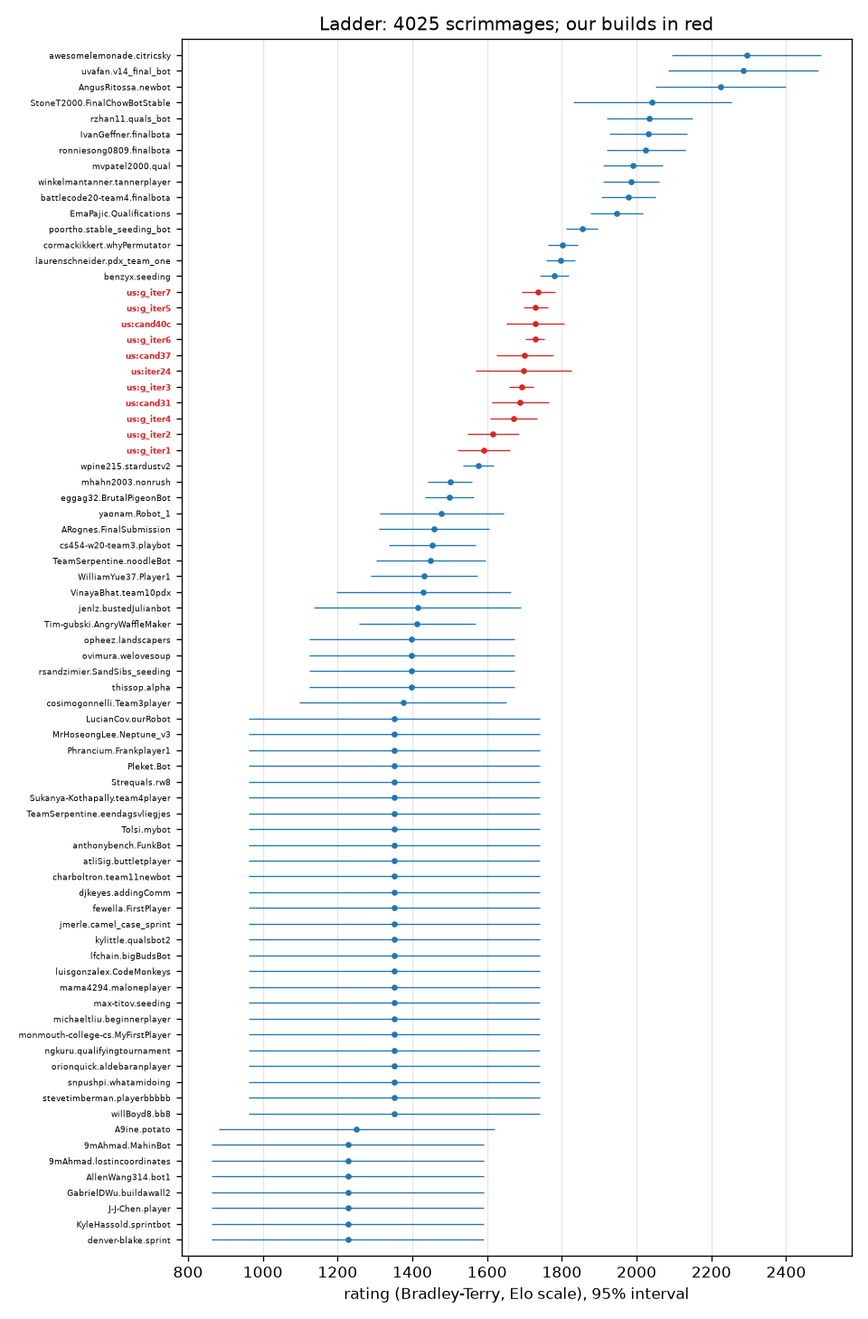
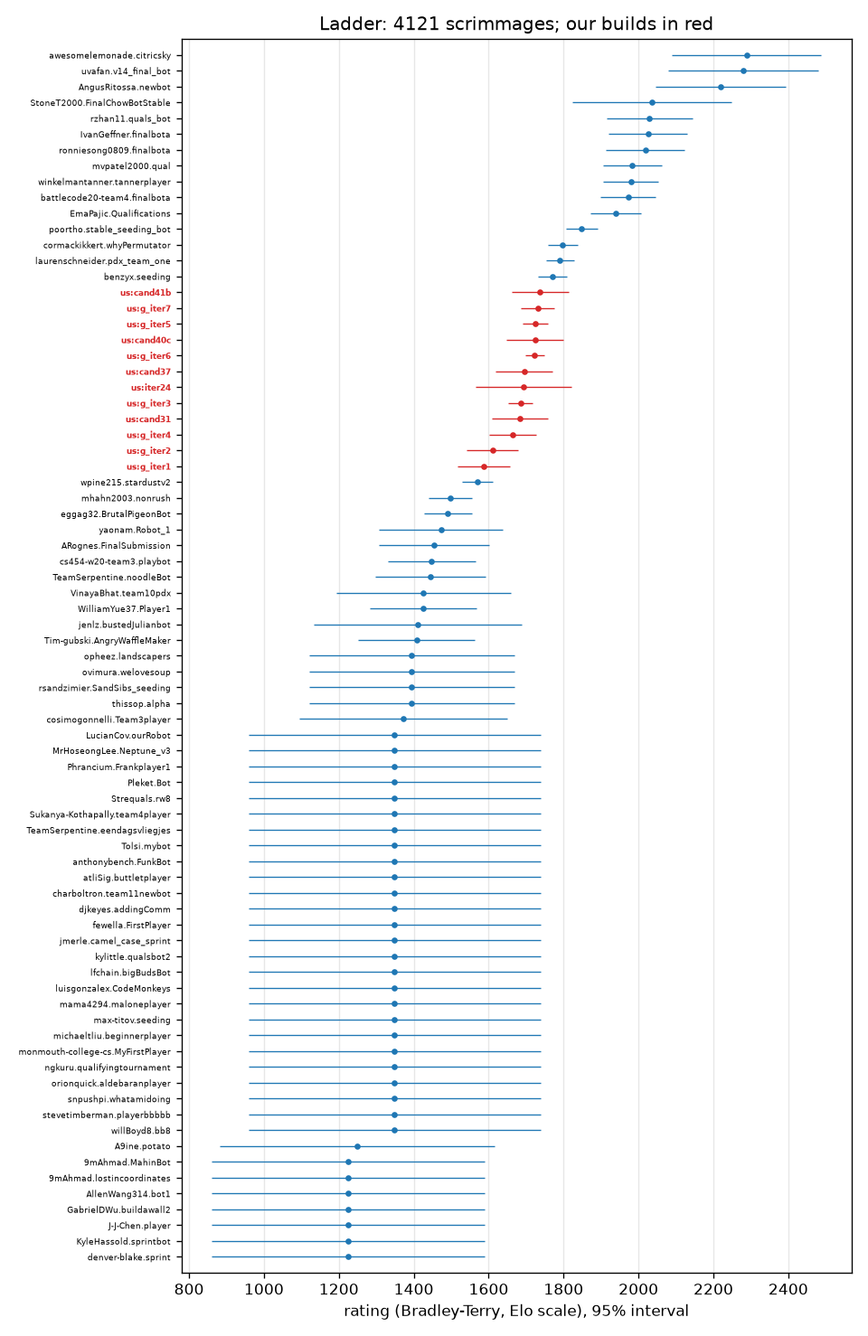
Arm 41b: flood-round losses 1 of 96 (the pre-registered finding; g_iter7's rate gives 6-7), 51-45, 1737 +- 76; ladder files
Claude-Session: https://claude.ai/code/session_015tNyF5ucwWW1mudpEQTT25

diff --git a/progress/ELO.md b/progress/ELO.md
@@ -1,98 +1,100 @@
 # Ladder
 
-4025 scrimmages (ours only), 3501 distinct (a repeated pairing with the same seed replays the same game and counts once), rated by a batch Bradley-Terry fit on the Elo scale (`tools/elolib.py`); each of our builds is its own player. 65 of 65 ladder bots met.
+4121 scrimmages (ours only), 3597 distinct (a repeated pairing with the same seed replays the same game and counts once), rated by a batch Bradley-Terry fit on the Elo scale (`tools/elolib.py`); each of our builds is its own player. 65 of 65 ladder bots met.
 
 Our builds (rating +- 95%; field score = expected score against every ladder bot, one game each):
 
 | build | rating | rank | games | record | field score |
 |---|---|---|---|---|---|
-| g_iter7 | 1737 +- 44 | 16 of 76 | 288 | 135-153 | 73.3% |
-| g_iter5 | 1730 +- 34 | 17 of 76 | 618 | 329-289 | 72.9% |
-| cand40c | 1729 +- 77 | 18 of 76 | 96 | 57-39 | 72.8% |
-| g_iter6 | 1729 +- 25 | 19 of 76 | 886 | 450-436 | 72.8% |
-| cand37 | 1701 +- 76 | 20 of 76 | 96 | 46-50 | 71.0% |
-| iter24 | 1698 +- 128 | 21 of 76 | 46 | 11-35 | 70.8% |
-| g_iter3 | 1692 +- 32 | 22 of 76 | 796 | 167-629 | 70.4% |
-| cand31 | 1689 +- 76 | 23 of 76 | 96 | 52-44 | 70.2% |
-| g_iter4 | 1670 +- 63 | 24 of 76 | 217 | 43-174 | 68.9% |
-| g_iter2 | 1616 +- 69 | 25 of 76 | 192 | 44-148 | 64.7% |
-| g_iter1 | 1591 +- 70 | 26 of 76 | 170 | 95-75 | 62.7% |
+| cand41b | 1737 +- 76 | 16 of 77 | 96 | 51-45 | 73.6% |
+| g_iter7 | 1731 +- 44 | 17 of 77 | 288 | 135-153 | 73.2% |
+| g_iter5 | 1724 +- 34 | 18 of 77 | 618 | 329-289 | 72.8% |
+| cand40c | 1723 +- 77 | 19 of 77 | 96 | 57-39 | 72.7% |
+| g_iter6 | 1723 +- 25 | 20 of 77 | 886 | 450-436 | 72.7% |
+| cand37 | 1694 +- 76 | 21 of 77 | 96 | 46-50 | 70.8% |
+| iter24 | 1692 +- 128 | 22 of 77 | 46 | 11-35 | 70.7% |
+| g_iter3 | 1686 +- 32 | 23 of 77 | 796 | 167-629 | 70.2% |
+| cand31 | 1683 +- 76 | 24 of 77 | 96 | 52-44 | 70.1% |
+| g_iter4 | 1664 +- 63 | 25 of 77 | 217 | 43-174 | 68.7% |
+| g_iter2 | 1610 +- 69 | 26 of 77 | 192 | 44-148 | 64.5% |
+| g_iter1 | 1587 +- 69 | 27 of 77 | 170 | 95-75 | 62.6% |
 
 | rank | player | rating | +- 95% | games | W-L |
 |---|---|---|---|---|---|
-| 1 | awesomelemonade.citricsky | 2294 | 200 | 103 | 101-2 |
-| 2 | uvafan.v14_final_bot | 2285 | 200 | 98 | 96-2 |
-| 3 | AngusRitossa.newbot | 2226 | 174 | 95 | 92-3 |
-| 4 | StoneT2000.FinalChowBotStable | 2041 | 212 | 21 | 19-2 |
-| 5 | rzhan11.quals_bot | 2035 | 115 | 86 | 77-9 |
-| 6 | IvanGeffner.finalbota | 2031 | 105 | 101 | 90-11 |
-| 7 | ronniesong0809.finalbota | 2025 | 105 | 97 | 86-11 |
-| 8 | mvpatel2000.qual | 1990 | 79 | 139 | 118-21 |
-| 9 | winkelmantanner.tannerplayer | 1985 | 75 | 152 | 128-24 |
-| 10 | battlecode20-team4.finalbota | 1978 | 73 | 154 | 129-25 |
-| 11 | EmaPajic.Qualifications | 1947 | 71 | 149 | 121-28 |
-| 12 | poortho.stable_seeding_bot | 1854 | 42 | 305 | 212-93 |
-| 13 | cormackikkert.whyPermutator | 1802 | 40 | 313 | 196-117 |
-| 14 | laurenschneider.pdx_team_one | 1797 | 39 | 320 | 198-122 |
-| 15 | benzyx.seeding | 1780 | 39 | 316 | 189-127 |
-| 16 | **us:g_iter7** | 1737 | 44 | 288 | 135-153 |
-| 17 | **us:g_iter5** | 1730 | 34 | 618 | 329-289 |
-| 18 | **us:cand40c** | 1729 | 77 | 96 | 57-39 |
-| 19 | **us:g_iter6** | 1729 | 25 | 886 | 450-436 |
-| 20 | **us:cand37** | 1701 | 76 | 96 | 46-50 |
-| 21 | **us:iter24** | 1698 | 128 | 46 | 11-35 |
-| 22 | **us:g_iter3** | 1692 | 32 | 796 | 167-629 |
-| 23 | **us:cand31** | 1689 | 76 | 96 | 52-44 |
-| 24 | **us:g_iter4** | 1670 | 63 | 217 | 43-174 |
-| 25 | **us:g_iter2** | 1616 | 69 | 192 | 44-148 |
-| 26 | **us:g_iter1** | 1591 | 70 | 170 | 95-75 |
-| 27 | wpine215.stardustv2 | 1576 | 42 | 311 | 98-213 |
-| 28 | mhahn2003.nonrush | 1501 | 60 | 184 | 42-142 |
-| 29 | eggag32.BrutalPigeonBot | 1499 | 65 | 158 | 34-124 |
-| 30 | yaonam.Robot_1 | 1478 | 165 | 21 | 5-16 |
-| 31 | ARognes.FinalSubmission | 1459 | 148 | 31 | 6-25 |
-| 32 | cs454-w20-team3.playbot | 1453 | 117 | 50 | 10-40 |
-| 33 | TeamSerpentine.noodleBot | 1449 | 147 | 32 | 6-26 |
-| 34 | WilliamYue37.Player1 | 1430 | 143 | 40 | 6-34 |
-| 35 | VinayaBhat.team10pdx | 1430 | 234 | 9 | 2-7 |
-| 36 | jenlz.bustedJulianbot | 1414 | 277 | 8 | 1-7 |
-| 37 | Tim-gubski.AngryWaffleMaker | 1413 | 156 | 32 | 5-27 |
-| 38 | opheez.landscapers | 1399 | 274 | 9 | 1-8 |
-| 39 | ovimura.welovesoup | 1399 | 274 | 9 | 1-8 |
-| 40 | rsandzimier.SandSibs_seeding | 1399 | 274 | 9 | 1-8 |
-| 41 | thissop.alpha | 1399 | 274 | 9 | 1-8 |
-| 42 | cosimogonnelli.Team3player | 1375 | 277 | 7 | 1-6 |
-| 43 | LucianCov.ourRobot | 1351 | 390 | 3 | 0-3 |
-| 44 | MrHoseongLee.Neptune_v3 | 1351 | 390 | 3 | 0-3 |
-| 45 | Phrancium.Frankplayer1 | 1351 | 390 | 3 | 0-3 |
-| 46 | Pleket.Bot | 1351 | 390 | 3 | 0-3 |
-| 47 | Strequals.rw8 | 1351 | 390 | 3 | 0-3 |
-| 48 | Sukanya-Kothapally.team4player | 1351 | 390 | 3 | 0-3 |
-| 49 | TeamSerpentine.eendagsvliegjes | 1351 | 390 | 3 | 0-3 |
-| 50 | Tolsi.mybot | 1351 | 390 | 3 | 0-3 |
-| 51 | anthonybench.FunkBot | 1351 | 390 | 3 | 0-3 |
-| 52 | atliSig.buttletplayer | 1351 | 390 | 3 | 0-3 |
-| 53 | charboltron.team11newbot | 1351 | 390 | 3 | 0-3 |
-| 54 | djkeyes.addingComm | 1351 | 390 | 3 | 0-3 |
-| 55 | fewella.FirstPlayer | 1351 | 390 | 3 | 0-3 |
-| 56 | jmerle.camel_case_sprint | 1351 | 390 | 3 | 0-3 |
-| 57 | kylittle.qualsbot2 | 1351 | 390 | 3 | 0-3 |
-| 58 | lfchain.bigBudsBot | 1351 | 390 | 3 | 0-3 |
-| 59 | luisgonzalex.CodeMonkeys | 1351 | 390 | 3 | 0-3 |
-| 60 | mama4294.maloneplayer | 1351 | 390 | 3 | 0-3 |
-| 61 | max-titov.seeding | 1351 | 390 | 3 | 0-3 |
-| 62 | michaeltliu.beginnerplayer | 1351 | 390 | 3 | 0-3 |
-| 63 | monmouth-college-cs.MyFirstPlayer | 1351 | 390 | 3 | 0-3 |
-| 64 | ngkuru.qualifyingtournament | 1351 | 390 | 3 | 0-3 |
-| 65 | orionquick.aldebaranplayer | 1351 | 390 | 3 | 0-3 |
-| 66 | snpushpi.whatamidoing | 1351 | 390 | 3 | 0-3 |
-| 67 | stevetimberman.playerbbbbb | 1351 | 390 | 3 | 0-3 |
-| 68 | willBoyd8.bb8 | 1351 | 390 | 3 | 0-3 |
-| 69 | A9ine.potato | 1251 | 368 | 6 | 0-6 |
-| 70 | 9mAhmad.MahinBot | 1228 | 364 | 7 | 0-7 |
-| 71 | 9mAhmad.lostincoordinates | 1228 | 364 | 7 | 0-7 |
-| 72 | AllenWang314.bot1 | 1228 | 364 | 7 | 0-7 |
-| 73 | GabrielDWu.buildawall2 | 1228 | 364 | 7 | 0-7 |
-| 74 | J-J-Chen.player | 1228 | 364 | 7 | 0-7 |
-| 75 | KyleHassold.sprintbot | 1228 | 364 | 7 | 0-7 |
-| 76 | denver-blake.sprint | 1228 | 364 | 7 | 0-7 |
+| 1 | awesomelemonade.citricsky | 2288 | 200 | 103 | 101-2 |
+| 2 | uvafan.v14_final_bot | 2279 | 200 | 98 | 96-2 |
+| 3 | AngusRitossa.newbot | 2220 | 174 | 95 | 92-3 |
+| 4 | StoneT2000.FinalChowBotStable | 2036 | 212 | 21 | 19-2 |
+| 5 | rzhan11.quals_bot | 2029 | 115 | 86 | 77-9 |
+| 6 | IvanGeffner.finalbota | 2025 | 105 | 101 | 90-11 |
+| 7 | ronniesong0809.finalbota | 2019 | 105 | 97 | 86-11 |
+| 8 | mvpatel2000.qual | 1984 | 79 | 139 | 118-21 |
+| 9 | winkelmantanner.tannerplayer | 1979 | 75 | 152 | 128-24 |
+| 10 | battlecode20-team4.finalbota | 1972 | 73 | 154 | 129-25 |
+| 11 | EmaPajic.Qualifications | 1940 | 67 | 161 | 130-31 |
+| 12 | poortho.stable_seeding_bot | 1849 | 41 | 317 | 220-97 |
+| 13 | cormackikkert.whyPermutator | 1798 | 39 | 325 | 204-121 |
+| 14 | laurenschneider.pdx_team_one | 1791 | 38 | 332 | 205-127 |
+| 15 | benzyx.seeding | 1771 | 38 | 328 | 194-134 |
+| 16 | **us:cand41b** | 1737 | 76 | 96 | 51-45 |
+| 17 | **us:g_iter7** | 1731 | 44 | 288 | 135-153 |
+| 18 | **us:g_iter5** | 1724 | 34 | 618 | 329-289 |
+| 19 | **us:cand40c** | 1723 | 77 | 96 | 57-39 |
+| 20 | **us:g_iter6** | 1723 | 25 | 886 | 450-436 |
+| 21 | **us:cand37** | 1694 | 76 | 96 | 46-50 |
+| 22 | **us:iter24** | 1692 | 128 | 46 | 11-35 |
+| 23 | **us:g_iter3** | 1686 | 32 | 796 | 167-629 |
+| 24 | **us:cand31** | 1683 | 76 | 96 | 52-44 |
+| 25 | **us:g_iter4** | 1664 | 63 | 217 | 43-174 |
+| 26 | **us:g_iter2** | 1610 | 69 | 192 | 44-148 |
+| 27 | **us:g_iter1** | 1587 | 69 | 170 | 95-75 |
+| 28 | wpine215.stardustv2 | 1569 | 41 | 323 | 101-222 |
+| 29 | mhahn2003.nonrush | 1498 | 58 | 196 | 45-151 |
+| 30 | eggag32.BrutalPigeonBot | 1491 | 63 | 170 | 36-134 |
+| 31 | yaonam.Robot_1 | 1473 | 165 | 21 | 5-16 |
+| 32 | ARognes.FinalSubmission | 1454 | 148 | 31 | 6-25 |
+| 33 | cs454-w20-team3.playbot | 1448 | 117 | 50 | 10-40 |
+| 34 | TeamSerpentine.noodleBot | 1444 | 147 | 32 | 6-26 |
+| 35 | VinayaBhat.team10pdx | 1426 | 234 | 9 | 2-7 |
+| 36 | WilliamYue37.Player1 | 1425 | 143 | 40 | 6-34 |
+| 37 | jenlz.bustedJulianbot | 1410 | 277 | 8 | 1-7 |
+| 38 | Tim-gubski.AngryWaffleMaker | 1408 | 156 | 32 | 5-27 |
+| 39 | opheez.landscapers | 1395 | 273 | 9 | 1-8 |
+| 40 | ovimura.welovesoup | 1395 | 273 | 9 | 1-8 |
+| 41 | rsandzimier.SandSibs_seeding | 1395 | 273 | 9 | 1-8 |
+| 42 | thissop.alpha | 1395 | 273 | 9 | 1-8 |
+| 43 | cosimogonnelli.Team3player | 1372 | 277 | 7 | 1-6 |
+| 44 | LucianCov.ourRobot | 1349 | 390 | 3 | 0-3 |
+| 45 | MrHoseongLee.Neptune_v3 | 1349 | 390 | 3 | 0-3 |
+| 46 | Phrancium.Frankplayer1 | 1349 | 390 | 3 | 0-3 |
+| 47 | Pleket.Bot | 1349 | 390 | 3 | 0-3 |
+| 48 | Strequals.rw8 | 1349 | 390 | 3 | 0-3 |
+| 49 | Sukanya-Kothapally.team4player | 1349 | 390 | 3 | 0-3 |
+| 50 | TeamSerpentine.eendagsvliegjes | 1349 | 390 | 3 | 0-3 |
+| 51 | Tolsi.mybot | 1349 | 390 | 3 | 0-3 |
+| 52 | anthonybench.FunkBot | 1349 | 390 | 3 | 0-3 |
+| 53 | atliSig.buttletplayer | 1349 | 390 | 3 | 0-3 |
+| 54 | charboltron.team11newbot | 1349 | 390 | 3 | 0-3 |
+| 55 | djkeyes.addingComm | 1349 | 390 | 3 | 0-3 |
+| 56 | fewella.FirstPlayer | 1349 | 390 | 3 | 0-3 |
+| 57 | jmerle.camel_case_sprint | 1349 | 390 | 3 | 0-3 |
+| 58 | kylittle.qualsbot2 | 1349 | 390 | 3 | 0-3 |
+| 59 | lfchain.bigBudsBot | 1349 | 390 | 3 | 0-3 |
+| 60 | luisgonzalex.CodeMonkeys | 1349 | 390 | 3 | 0-3 |
+| 61 | mama4294.maloneplayer | 1349 | 390 | 3 | 0-3 |
+| 62 | max-titov.seeding | 1349 | 390 | 3 | 0-3 |
+| 63 | michaeltliu.beginnerplayer | 1349 | 390 | 3 | 0-3 |
+| 64 | monmouth-college-cs.MyFirstPlayer | 1349 | 390 | 3 | 0-3 |
+| 65 | ngkuru.qualifyingtournament | 1349 | 390 | 3 | 0-3 |
+| 66 | orionquick.aldebaranplayer | 1349 | 390 | 3 | 0-3 |
+| 67 | snpushpi.whatamidoing | 1349 | 390 | 3 | 0-3 |
+| 68 | stevetimberman.playerbbbbb | 1349 | 390 | 3 | 0-3 |
+| 69 | willBoyd8.bb8 | 1349 | 390 | 3 | 0-3 |
+| 70 | A9ine.potato | 1248 | 368 | 6 | 0-6 |
+| 71 | 9mAhmad.MahinBot | 1225 | 364 | 7 | 0-7 |
+| 72 | 9mAhmad.lostincoordinates | 1225 | 364 | 7 | 0-7 |
+| 73 | AllenWang314.bot1 | 1225 | 364 | 7 | 0-7 |
+| 74 | GabrielDWu.buildawall2 | 1225 | 364 | 7 | 0-7 |
+| 75 | J-J-Chen.player | 1225 | 364 | 7 | 0-7 |
+| 76 | KyleHassold.sprintbot | 1225 | 364 | 7 | 0-7 |
+| 77 | denver-blake.sprint | 1225 | 364 | 7 | 0-7 |

diff --git a/progress/ONSET.md b/progress/ONSET.md
@@ -1,6 +1,6 @@
 # Which metric starts predicting the result first
 
-45 games, 26 wins. Noise floor about 0.30; a correlation inside that band is not evidence.
+47 games, 28 wins. Noise floor about 0.29; a correlation inside that band is not evidence.
 
 Every metric is oriented so **higher is better for us**, so a positive correlation always means
 "this being better goes with winning". `~avg` is the running mean over all rounds so far rather than
@@ -12,46 +12,46 @@ See `progress/METRICS.md` for how each quantity is computed.
 
 | onset | anti | metric | peak corr | r100 | r200 | r300 | r400 | r600 | r900 |
 |---|---|---|---|---|---|---|---|---|---|
-| r250 | - | units (us-them) | +0.43 | +0.17 | +0.10 | +0.41 | +0.43 | +0.37 | +0.27 |
-| r300 | - | died (us-them) [inverted] ~avg | +0.34 | -0.16 | -0.01 | +0.32 | +0.29 | +0.18 | +0.15 |
-| r300 | - | miners (us-them) | +0.33 | +0.26 | +0.20 | +0.33 | +0.17 | +0.07 | -0.05 |
-| r300 | - | miners (us-them) ~avg | +0.33 | +0.11 | +0.16 | +0.32 | +0.30 | +0.21 | +0.12 |
-| r300 | - | robots (us-them) | +0.41 | +0.13 | +0.10 | +0.38 | +0.41 | +0.37 | +0.26 |
-| r350 | - | landscapers (us-them) | +0.58 | -0.04 | +0.03 | +0.27 | +0.42 | +0.58 | +0.58 |
-| r350 | - | units (us-them) ~avg | +0.42 | +0.03 | +0.07 | +0.28 | +0.39 | +0.42 | +0.38 |
-| r400 | - | robots (us-them) ~avg | +0.38 | +0.03 | +0.08 | +0.23 | +0.33 | +0.37 | +0.34 |
-| r400 | - | spawned (us-them) | +0.35 | +0.14 | +0.10 | +0.30 | +0.34 | +0.30 | +0.20 |
-| r500 | - | digs (us-them) | +0.61 | -0.12 | -0.06 | +0.09 | +0.23 | +0.47 | +0.61 |
-| r500 | - | dirtDeps (us-them) | +0.57 | -0.12 | -0.08 | +0.07 | +0.19 | +0.43 | +0.57 |
-| r500 | - | landscapers (us-them) ~avg | +0.63 | -0.09 | -0.02 | +0.09 | +0.23 | +0.45 | +0.61 |
-| r600 | - | digs (us-them) ~avg | +0.56 | -0.14 | -0.05 | +0.05 | +0.16 | +0.32 | +0.52 |
-| r650 | - | dirtDeps (us-them) ~avg | +0.52 | -0.13 | -0.06 | +0.02 | +0.13 | +0.28 | +0.49 |
-| - | r300 | aba (us-them) [inverted] | -0.47 | -0.17 | -0.22 | -0.33 | -0.41 | -0.47 | -0.34 |
-| - | r350 | aba (us-them) [inverted] ~avg | -0.44 | -0.18 | -0.21 | -0.28 | -0.34 | -0.43 | -0.43 |
-| - | - | cov (us-them) | -0.16 | -0.05 | +0.02 | +0.07 | -0.03 | -0.16 | -0.04 |
-| - | - | cov (us-them) ~avg | -0.05 | -0.04 | -0.03 | +0.02 | +0.03 | -0.02 | -0.05 |
-| - | - | died (us-them) [inverted] | +0.30 | -0.16 | +0.00 | +0.29 | +0.17 | +0.11 | +0.06 |
-| - | - | drones (us-them) | -0.18 | +0.10 | -0.09 | +0.00 | -0.11 | -0.09 | -0.18 |
-| - | - | drones (us-them) ~avg | -0.13 | +0.10 | +0.04 | +0.03 | -0.01 | -0.09 | -0.13 |
+| r150 | - | worth (us-them) | +0.46 | +0.20 | +0.26 | +0.33 | +0.30 | +0.36 | +0.46 |
+| r300 | - | drones (us-them) | +0.32 | +0.20 | +0.13 | +0.32 | +0.22 | +0.16 | +0.21 |
+| r300 | - | drones (us-them) ~avg | +0.37 | +0.27 | +0.23 | +0.37 | +0.33 | +0.23 | +0.19 |
+| r350 | - | died (us-them) [inverted] | +0.32 | . | +0.32 | +0.24 | +0.26 | +0.20 | +0.19 |
+| r350 | - | pickups (us-them) | +0.44 | +0.13 | +0.21 | +0.27 | +0.41 | +0.41 | +0.43 |
+| r350 | - | pickups (us-them) ~avg | +0.42 | +0.13 | +0.21 | +0.26 | +0.36 | +0.42 | +0.41 |
+| r350 | - | worth (us-them) ~avg | +0.41 | +0.19 | +0.28 | +0.29 | +0.32 | +0.33 | +0.37 |
+| r400 | - | robots (us-them) | +0.62 | +0.17 | +0.17 | +0.20 | +0.30 | +0.45 | +0.62 |
+| r450 | - | landscapers (us-them) | +0.60 | +0.05 | +0.07 | +0.02 | +0.24 | +0.53 | +0.59 |
+| r450 | - | spawned (us-them) | +0.59 | +0.17 | +0.15 | +0.16 | +0.25 | +0.41 | +0.54 |
+| r450 | - | units (us-them) | +0.57 | +0.05 | +0.09 | +0.11 | +0.24 | +0.41 | +0.56 |
+| r500 | - | vaporators (us-them) | +0.48 | -0.01 | -0.05 | +0.09 | +0.20 | +0.38 | +0.45 |
+| r550 | - | robots (us-them) ~avg | +0.53 | +0.20 | +0.21 | +0.18 | +0.22 | +0.35 | +0.49 |
+| r600 | - | landscapers (us-them) ~avg | +0.52 | +0.05 | +0.09 | +0.00 | +0.06 | +0.34 | +0.51 |
+| r650 | - | spawned (us-them) ~avg | +0.47 | +0.20 | +0.20 | +0.16 | +0.18 | +0.30 | +0.40 |
+| r650 | - | units (us-them) ~avg | +0.46 | +0.07 | +0.11 | +0.07 | +0.12 | +0.30 | +0.43 |
+| r650 | - | vaporators (us-them) ~avg | +0.42 | -0.01 | -0.08 | +0.05 | +0.15 | +0.28 | +0.41 |
+| r700 | - | digs (us-them) | +0.47 | +0.11 | +0.17 | +0.01 | +0.04 | +0.24 | +0.45 |
+| r700 | - | dirtDeps (us-them) | +0.47 | +0.12 | +0.19 | -0.00 | +0.02 | +0.22 | +0.45 |
+| r750 | - | died (us-them) [inverted] ~avg | +0.32 | . | +0.32 | +0.24 | +0.28 | +0.27 | +0.30 |
+| r900 | - | miners (us-them) | +0.31 | -0.04 | +0.00 | +0.03 | +0.01 | +0.02 | +0.31 |
+| r1050 | - | digs (us-them) ~avg | +0.36 | +0.11 | +0.18 | +0.04 | +0.03 | +0.13 | +0.29 |
+| r1050 | - | dirtDeps (us-them) ~avg | +0.36 | +0.12 | +0.20 | +0.03 | +0.02 | +0.11 | +0.29 |
+| r1150 | - | netguns (us-them) | +0.31 | . | -0.03 | +0.13 | +0.15 | +0.16 | +0.23 |
+| - | - | aba (us-them) [inverted] | +0.26 | +0.23 | +0.25 | +0.20 | +0.15 | -0.01 | -0.02 |
+| - | - | aba (us-them) [inverted] ~avg | +0.26 | +0.25 | +0.26 | +0.24 | +0.20 | +0.08 | +0.02 |
+| - | - | cov (us-them) | +0.21 | -0.11 | -0.07 | +0.08 | +0.15 | +0.19 | +0.14 |
+| - | - | cov (us-them) ~avg | +0.16 | -0.08 | -0.12 | -0.05 | +0.03 | +0.13 | +0.15 |
 | - | - | drowned (us-them) [inverted] | . | . | . | . | . | . | . |
 | - | - | drowned (us-them) [inverted] ~avg | . | . | . | . | . | . | . |
-| - | - | hqBuried (us-them) [inverted] | +0.27 | +0.22 | . | . | +0.03 | +0.19 | +0.18 |
-| - | - | hqBuried (us-them) [inverted] ~avg | +0.28 | +0.28 | +0.24 | +0.24 | +0.19 | +0.22 | +0.25 |
-| - | - | mines (us-them) | +0.30 | -0.01 | +0.10 | +0.18 | +0.26 | +0.25 | +0.16 |
-| - | - | mines (us-them) ~avg | +0.28 | -0.04 | +0.07 | +0.13 | +0.20 | +0.27 | +0.23 |
-| - | - | moves (us-them) | +0.29 | +0.01 | +0.07 | +0.13 | +0.22 | +0.29 | +0.14 |
-| - | - | moves (us-them) ~avg | +0.26 | +0.08 | +0.07 | +0.13 | +0.19 | +0.25 | +0.22 |
-| - | - | netguns (us-them) | -0.20 | . | +0.12 | -0.14 | -0.12 | -0.16 | -0.15 |
-| - | - | netguns (us-them) ~avg | -0.18 | . | +0.12 | -0.09 | -0.12 | -0.15 | -0.18 |
-| - | - | pickups (us-them) | +0.28 | +0.23 | +0.14 | +0.01 | -0.10 | +0.04 | +0.16 |
-| - | - | pickups (us-them) ~avg | +0.27 | +0.23 | +0.23 | +0.10 | -0.02 | -0.01 | +0.09 |
-| - | - | soup (us-them) | +0.26 | -0.05 | +0.09 | -0.03 | -0.24 | -0.19 | -0.06 |
-| - | - | soup (us-them) ~avg | -0.22 | -0.01 | +0.07 | +0.13 | -0.03 | -0.18 | -0.15 |
-| - | - | spawned (us-them) ~avg | +0.30 | +0.04 | +0.08 | +0.20 | +0.27 | +0.30 | +0.25 |
-| - | - | vaporators (us-them) | +0.26 | . | -0.02 | -0.18 | +0.08 | +0.18 | +0.10 |
-| - | - | vaporators (us-them) ~avg | +0.17 | . | +0.01 | -0.11 | -0.08 | +0.03 | +0.09 |
-| - | - | worth (us-them) | +0.28 | +0.01 | +0.07 | +0.16 | +0.23 | +0.28 | +0.16 |
-| - | - | worth (us-them) ~avg | +0.21 | -0.02 | +0.06 | +0.10 | +0.15 | +0.20 | +0.20 |
+| - | - | hqBuried (us-them) [inverted] | +0.22 | +0.15 | +0.22 | . | . | . | +0.19 |
+| - | - | hqBuried (us-them) [inverted] ~avg | +0.20 | +0.15 | +0.20 | -0.12 | -0.12 | -0.03 | +0.10 |
+| - | - | miners (us-them) ~avg | +0.11 | -0.01 | -0.00 | +0.02 | +0.00 | -0.04 | +0.05 |
+| - | - | mines (us-them) | +0.28 | +0.19 | +0.24 | +0.25 | +0.24 | +0.21 | +0.21 |
+| - | - | mines (us-them) ~avg | +0.25 | +0.14 | +0.24 | +0.25 | +0.25 | +0.21 | +0.17 |
+| - | r100 | moves (us-them) | -0.36 | -0.35 | -0.26 | -0.15 | -0.13 | +0.04 | +0.08 |
+| - | r100 | moves (us-them) ~avg | -0.36 | -0.32 | -0.34 | -0.23 | -0.22 | -0.10 | -0.02 |
+| - | - | netguns (us-them) ~avg | +0.21 | . | -0.03 | +0.08 | +0.11 | +0.15 | +0.18 |
+| - | - | soup (us-them) | +0.28 | -0.02 | +0.22 | +0.26 | -0.05 | -0.14 | -0.09 |
+| - | - | soup (us-them) ~avg | +0.22 | -0.06 | +0.19 | +0.22 | +0.20 | -0.03 | -0.11 |
 
 **Reading it.** Earliest onset is the first place to look: temporal precedence is the one causal hint a
 correlation can honestly give. Late-onset metrics are usually the scoreboard rather than the cause -- by then

diff --git a/BENCHMARK.md b/BENCHMARK.md
@@ -62,7 +62,7 @@ build with at least 200 recorded games: a candidate's short ladder arm never re-
 | `EmaPajic.Mark3` | EmaPajic_Battlecode-2020 (c060a22) | - | - | untested |  |
 | `EmaPajic.Mark4` | EmaPajic_Battlecode-2020 (c060a22) | - | - | untested |  |
 | `EmaPajic.Mark5` | EmaPajic_Battlecode-2020 (c060a22) | - | - | untested |  |
-| `EmaPajic.Qualifications` | EmaPajic_Battlecode-2020 (c060a22) | 38 | 24 | target | 20 0 21 0 50 0 17 38 8 |
+| `EmaPajic.Qualifications` | EmaPajic_Battlecode-2020 (c060a22) | 38 | 24 | target | 20 0 21 0 50 0 17 38 8 25 |
 | `EmaPajic.SeedingBot` | EmaPajic_Battlecode-2020 (c060a22) | - | - | untested |  |
 | `GabrielDWu.basicbot` | GabrielDWu_blezers-battlecode2020 (c0283f8) | - | - | untested |  |
 | `GabrielDWu.blezerbot` | GabrielDWu_blezers-battlecode2020 (c0283f8) | - | - | untested |  |
@@ -171,11 +171,11 @@ build with at least 200 recorded games: a candidate's short ladder arm never re-
 | `benzyx.espada` | benzyx_bc20-waterloo (05df2e7) | - | - | untested |  |
 | `benzyx.firstplayer` | benzyx_bc20-waterloo (05df2e7) | - | - | untested |  |
 | `benzyx.kurobot` | benzyx_bc20-waterloo (05df2e7) | - | - | untested |  |
-| `benzyx.seeding` | benzyx_bc20-waterloo (05df2e7) | 36 | 36 | target | 25 17 50 40 25 45 41 33 36 33 33 |
+| `benzyx.seeding` | benzyx_bc20-waterloo (05df2e7) | 36 | 36 | target | 25 17 50 40 25 45 41 33 36 33 33 58 |
 | `benzyx.tortuga` | benzyx_bc20-waterloo (05df2e7) | - | - | untested |  |
 | `charboltron.master_player` | charboltron_pdx_battlecode_2020_team_11 (f78f1e3) | - | - | untested |  |
 | `charboltron.team11newbot` | charboltron_pdx_battlecode_2020_team_11 (f78f1e3) | 100 | 2 | peer(>90 once) | 100 100 |
-| `cormackikkert.whyPermutator` | cormackikkert_battlecode2020 (4d230c4) | 28 | 36 | target | 25 17 38 40 25 42 45 25 28 25 42 |
+| `cormackikkert.whyPermutator` | cormackikkert_battlecode2020 (4d230c4) | 28 | 36 | target | 25 17 38 40 25 42 45 25 28 25 42 33 |
 | `cormackikkert.whyPermutatorOld` | cormackikkert_battlecode2020 (4d230c4) | - | - | untested |  |
 | `cosimogonnelli.Team3player` | cosimogonnelli_CS454-554-SE (d7dc657) | 100 | 2 | peer(>90 once) | 80 100 |
 | `cs454-w20-team3.oldbot` | cs454-w20-team3_team3-bot (502c334) | - | - | untested |  |
@@ -188,7 +188,7 @@ build with at least 200 recorded games: a candidate's short ladder arm never re-
 | `djkeyes.noop` | djkeyes_battlecode20-scaffold (189c057) | - | - | untested |  |
 | `djkeyes.noopemptystubsplayer` | djkeyes_battlecode20-scaffold (189c057) | - | - | untested |  |
 | `djkeyes.pathfinding` | djkeyes_battlecode20-scaffold (189c057) | - | - | untested |  |
-| `eggag32.BrutalPigeonBot` | eggag32_Battlecode-2020 (32f905f) | 79 | 24 | peer | 100 75 78 75 79 83 75 |
+| `eggag32.BrutalPigeonBot` | eggag32_Battlecode-2020 (32f905f) | 79 | 24 | peer | 100 75 78 75 79 83 75 83 |
 | `fewella.FirstPlayer` | fewella_Battlecode2020-DOGGO (a6cd49a) | 100 | 2 | peer(>90 once) | 100 100 |
 | `jenlz.bustedJulianbot` | jenlz_battlecode-exploding-gradients (88ba625) | 88 | 8 | peer | 100 88 |
 | `jenlz.clonebot` | jenlz_battlecode-exploding-gradients (88ba625) | - | - | untested |  |
@@ -203,7 +203,7 @@ build with at least 200 recorded games: a candidate's short ladder arm never re-
 | `kylittle.deliriumv1` | kylittle_DeliriumBattlecode (17a94dd) | - | - | untested |  |
 | `kylittle.qualsbot` | kylittle_DeliriumBattlecode (17a94dd) | - | - | untested |  |
 | `kylittle.qualsbot2` | kylittle_DeliriumBattlecode (17a94dd) | 100 | 2 | peer(>90 once) | 100 100 |
-| `laurenschneider.pdx_team_one` | laurenschneider_battlecode20-PDXTeamOne (2965376) | 50 | 36 | peer | 0 50 39 14 0 47 38 0 50 50 50 |
+| `laurenschneider.pdx_team_one` | laurenschneider_battlecode20-PDXTeamOne (2965376) | 50 | 36 | peer | 0 50 39 14 0 47 38 0 50 50 50 42 |
 | `lfchain.bigBudsBot` | lfchain_Battlecode2020 (b026153) | 100 | 2 | peer(>90 once) | 100 100 |
 | `lfchain.fBot` | lfchain_Battlecode2020 (b026153) | - | - | untested |  |
 | `lfchain.jBot` | lfchain_Battlecode2020 (b026153) | - | - | untested |  |
@@ -223,7 +223,7 @@ build with at least 200 recorded games: a candidate's short ladder arm never re-
 | `max-titov.turtlebot` | max-titov_2020.battlecode-KFA (496103d) | - | - | untested |  |
 | `mhahn2003.bot01` | mhahn2003_bc20 (7475d5e) | - | - | untested |  |
 | `mhahn2003.lectureplayer` | mhahn2003_bc20 (7475d5e) | - | - | untested |  |
-| `mhahn2003.nonrush` | mhahn2003_bc20 (7475d5e) | 75 | 12 | peer | 25 58 80 92 77 100 75 67 83 |
+| `mhahn2003.nonrush` | mhahn2003_bc20 (7475d5e) | 75 | 12 | peer | 25 58 80 92 77 100 75 67 83 75 |
 | `mhahn2003.pure_teraform` | mhahn2003_bc20 (7475d5e) | - | - | untested |  |
 | `mhahn2003.rngform` | mhahn2003_bc20 (7475d5e) | - | - | untested |  |
 | `mhahn2003.rush` | mhahn2003_bc20 (7475d5e) | - | - | untested |  |
@@ -280,7 +280,7 @@ build with at least 200 recorded games: a candidate's short ladder arm never re-
 | `poortho.rush` | poortho_battlecode-2020 (ebbd61e) | - | - | untested |  |
 | `poortho.rush_bot` | poortho_battlecode-2020 (ebbd61e) | - | - | untested |  |
 | `poortho.stable_miner1` | poortho_battlecode-2020 (ebbd61e) | - | - | untested |  |
-| `poortho.stable_seeding_bot` | poortho_battlecode-2020 (ebbd61e) | 39 | 36 | target | 0 17 27 31 0 30 31 50 39 33 25 |
+| `poortho.stable_seeding_bot` | poortho_battlecode-2020 (ebbd61e) | 39 | 36 | target | 0 17 27 31 0 30 31 50 39 33 25 33 |
 | `ps789.dennisTestPlayer` | ps789_AZBattlecode (f1d54ab) | - | - | untested |  |
 | `ps789.phillipTestPlayer` | ps789_AZBattlecode (f1d54ab) | - | - | untested |  |
 | `ronniesong0809.finalbota` | ronniesong0809_battlecode20-RADS (1cee065) | 0 | 11 | locked | 0 18 15 7 0 0 |
@@ -328,7 +328,7 @@ build with at least 200 recorded games: a candidate's short ladder arm never re-
 | `willBoyd8.mouse` | willBoyd8_BattleDroid (4b1d4ad) | - | - | untested |  |
 | `winkelmantanner.tannerplayer` | winkelmantanner_battlecode2020_the-levee-builders (7f49f11) | 8 | 12 | locked | 0 25 15 23 0 36 12 8 |
 | `wpine215.stardustv1` | wpine215_battlecode (d570d57) | - | - | untested |  |
-| `wpine215.stardustv2` | wpine215_battlecode (d570d57) | 78 | 36 | peer | 0 30 50 65 100 70 77 58 78 83 67 |
+| `wpine215.stardustv2` | wpine215_battlecode (d570d57) | 78 | 36 | peer | 0 30 50 65 100 70 77 58 78 83 67 75 |
 | `yaonam.Robot_1` | yaonam_battlecode2020 (bb363f5) | 83 | 12 | peer | 62 100 83 |
 
 285 bot packages from 68 repositories.

diff --git a/HANDOFF.md b/HANDOFF.md
@@ -20,7 +20,8 @@ Read `CLAUDE.md`, then `TRAINING_ALGORITHM.md`, `RULES.md`, this file, then the 
   feeds the tile between level, steps onto it and feeds the open tile; `src/bot` = `src/cand41b`; the first PAIRED
   gate, 320 pairs) and `arm41b-a`/`arm41b-b` (`BOT=cand41b`; post with `tools/post-block.sh <run> cand41b`; a
   finding at 2 or fewer flood-round losses of 96). Diagnostics: Hills B and Spiral A, flood-round deaths in the control
-  (r931/r932), become wall races lost at r2981/r2823 (TRAINING_LOG, Iteration 41).
+  (r931/r932), become wall races lost at r2981/r2823 (TRAINING_LOG, Iteration 41). **Arm posted: flood-round losses
+  1 of 96 (the finding; g_iter7 6-7), 51-45, 1737 +- 76.** The gate decides the rest.
 - **The other flood-round line:** GSF as B never builds the wall (0-4 landscapers at r500): a production failure.
 - **Iteration 40c as gated:** `gate40c` (Iteration 40c, `src/bot` = `src/cand40c`: a miner boxed in for 20 rounds with a
   landscaper of ours within 2 steps onto an empty ring tile, once per 100 rounds, before r400; mirror vs g_iter7,

diff --git a/TRAINING_LOG.md b/TRAINING_LOG.md
@@ -1265,6 +1265,11 @@ HQ still loses, so what it is worth is a ladder question (the field's walls are 
 **`gate41b`** (the first paired gate: N=320 pairs, `LOGTAG=@seat`) and **`arm41b-a`/`arm41b-b`** (96 seeded band
 games as `us:cand41b`; pre-registered: 2 or fewer flood-round losses of 96 against g_iter7's 6-7).
 
+**Arm 41b: 51-45 (53%), rating 1737 +- 76 (g_iter7 1734 +- 44), flood-round losses 1 of 96** (Islands2 r932) --
+**the pre-registered finding** (the threshold was 2; g_iter7's rate gives 6-7, P(1 or fewer) about 0.013; cand40c,
+the last candidate on this line, had 6). The seat walk removes the flood-round death from the ladder; the rating
+is level with the incumbent's inside the arm's interval.
+
 ## Iteration 39 -- the stalled seat-seeker fills the pit (2026-09-25, on g_iter7)
 
 **Evidence:** the flood-round census (78 of 89 such losses have an unseated ring tile at r500; GSF, Hills, Spiral,
